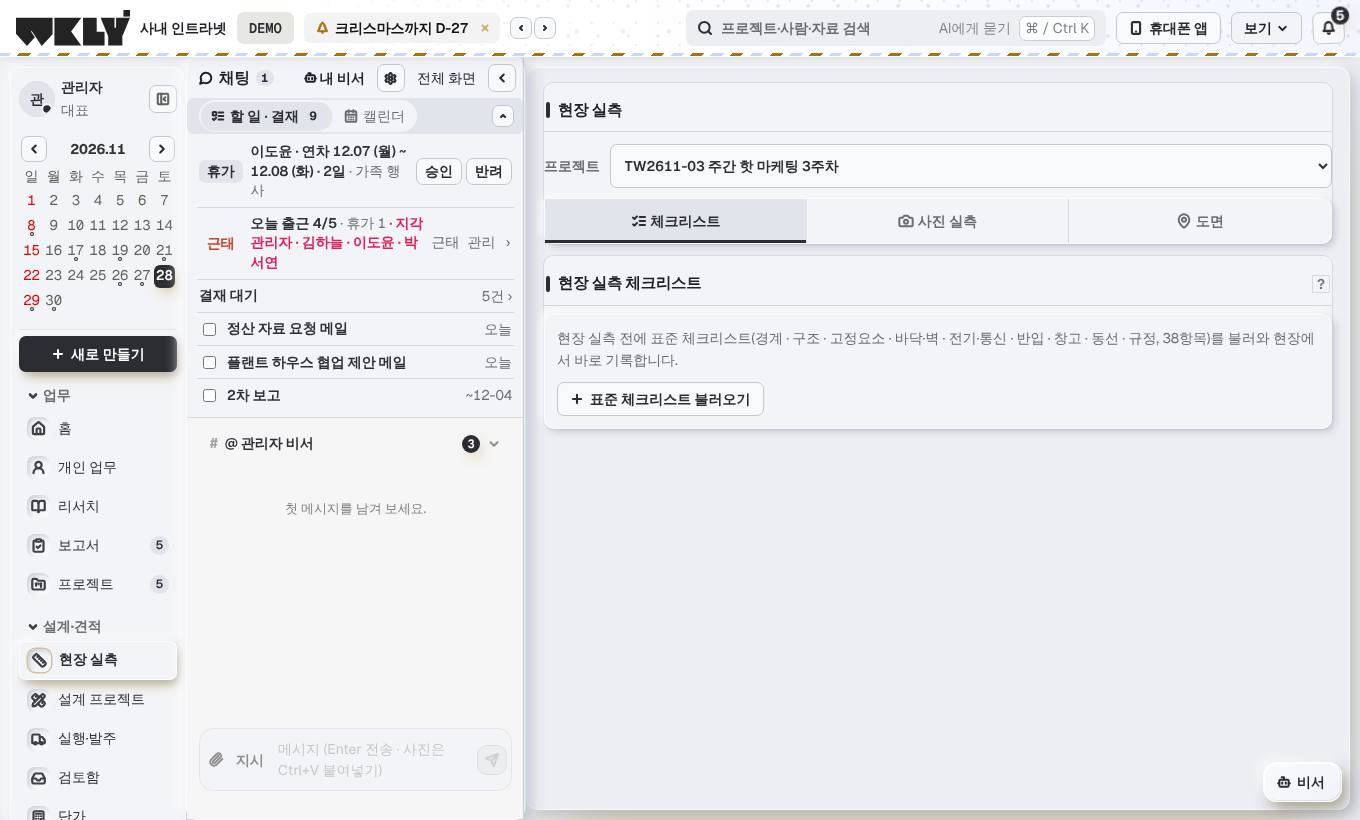
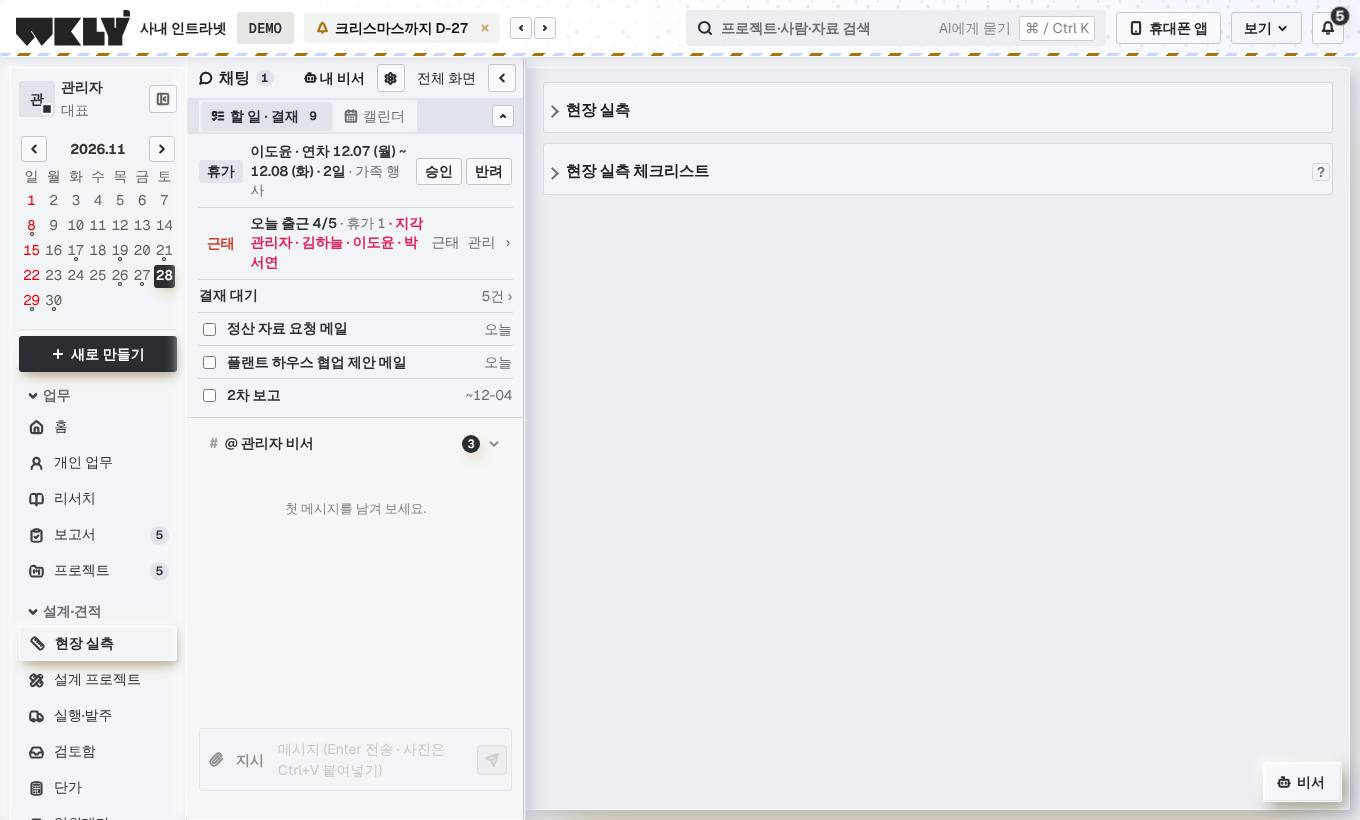
숫자 카드 · 오른쪽 일정 칸 접기, 모서리 3px, 아이콘 평평하게
Claude-Session: https://claude.ai/code/session_01F3gTQwJrgJEzSdbh5GAwru

diff --git a/erp/src/lib/foldCards.ts b/erp/src/lib/foldCards.ts
@@ -5,8 +5,10 @@
  *  - 알림 · 링크로 특정 항목을 열 때(주소에 id 등)는 그 화면에서 접지 않음 — 찾는 것이 가려지지 않게
  *  - React 가 그린 요소에는 data-* 표시만 붙임(요소를 넣거나 빼지 않음) · 모양은 mono.css [data-fold-head]
  */
-const HEAD = '.section-h, .section-head, .sec-head, .dash-card > :first-child, .div-card > :first-child, .board-head, .home-tasks-h, .guide-card-h, .myproj-h, .log-div-head, .weekly-div-head, .mf-h, .auto-camp-head, .md-head, .md-library-head, section.sales-pipe > h2:first-child, .card > h3:first-child, .box > h3:first-child, .box > h2:first-child'
-const SKIP = '.modal, .dialog, .modal-col, .scrim, .board-page, .ast-panel, .chat-dock, .web-panel, .profile, .weekly-print, [data-no-fold]'
+const HEAD = '.section-h, .section-head, .sec-head, .week-day-h, .dash-card > :first-child, .div-card > :first-child, .board-head, .home-tasks-h, .guide-card-h, .myproj-h, .log-div-head, .weekly-div-head, .mf-h, .auto-camp-head, .md-head, .md-library-head, section.sales-pipe > h2:first-child, .card > h3:first-child, .box > h3:first-child, .box > h2:first-child'
+const SKIP = '.modal, .dialog, .modal-col, .scrim, .board-page, .ast-panel, .chat-dock, .profile, .weekly-print, [data-no-fold]'
+/** 제목 줄이 없는 묶음(숫자 카드 줄 · 오른쪽 일정 칸): 묶음 위에 이름 띠를 CSS 로 그려 그것을 눌러 접고 폄 */
+const GROUPS: [string, string][] = [['.dash-kpis, .kpis, .home-kpis, .ledger-kpis, .weekly-kpis', '숫자 요약'], ['.right-sched', '일정']]
 const KEY = 'wkly-card-open'
 /** 주소에 이런 값이 있으면 특정 항목을 여는 길 → 접지 않음 */
 const DIRECT = /[?&](id|inquiry|interview|item|task|project|open|room|thread|week|user)=/
@@ -57,12 +59,19 @@ function apply(head: HTMLElement, folded: boolean) {
 }
 
 function scan() {
-  const main = document.querySelector<HTMLElement>('.app-page .main')
-  if (!main) return
+  const roots = [...document.querySelectorAll<HTMLElement>('.app-page .main, .app-page .web-panel')]
+  if (!roots.length) return
   const direct = DIRECT.test(location.search)
   const open = load()
   const path = location.pathname + (new URLSearchParams(location.search).get('tab') ? `?tab=${new URLSearchParams(location.search).get('tab')}` : '')
-  main.querySelectorAll<HTMLElement>(HEAD).forEach(head => {
+  for (const [sel, label] of GROUPS) roots.forEach(root => root.querySelectorAll<HTMLElement>(sel).forEach((g, i) => {
+    if (g.closest(SKIP) || g.parentElement?.closest('[data-fold-group]')) return
+    const key = cardKey(path, `${label} ${i + 1}`)
+    g.dataset.foldKey = key
+    g.dataset.foldLabel = label
+    if (g.dataset.foldGroup === undefined) g.dataset.foldGroup = direct || open[key] ? '0' : '1'
+  }))
+  roots.forEach(main => main.querySelectorAll<HTMLElement>(HEAD).forEach(head => {
     if (head.closest(SKIP)) return
     const title = titleOf(head)
     if (!title) return
@@ -71,7 +80,7 @@ function scan() {
     const want = direct ? false : !open[key]
     // 이미 같은 상태면 형제 표시만 다시 맞춤 (새로 그려진 줄이 있을 수 있음)
     apply(head, head.dataset.foldHead === undefined ? want : head.dataset.foldHead === '1')
-  })
+  }))
 }
 
 export function startFoldCards() {
@@ -91,6 +100,13 @@ export function startFoldCards() {
   }
   document.addEventListener('click', e => {
     const t = e.target as HTMLElement | null
+    // 이름 띠(묶음의 ::before)를 누른 것 = 묶음 자신이 눌린 것
+    if (t?.dataset.foldGroup !== undefined && e.target === t) {
+      const folded = t.dataset.foldGroup !== '1'
+      t.dataset.foldGroup = folded ? '1' : '0'
+      if (t.dataset.foldKey) save(setOpen(load(), t.dataset.foldKey, !folded))
+      return
+    }
     const head = t?.closest<HTMLElement>('[data-fold-head]')
     if (!head || t?.closest('a, button, input, select, textarea, label, [role="button"]')) return
     toggle(head)

diff --git a/erp/src/mono.css b/erp/src/mono.css
@@ -446,3 +446,26 @@ html:not([data-theme="dark"]) button.item:is(.active, .on) { box-shadow: none; b
 [data-card-fold="1"] > :not(:first-child), [data-card-hidden="1"] { display: none !important; }
 [data-fold-head="1"] { margin-bottom: 0 !important; border-bottom-color: transparent !important; }
 @media print { [data-card-fold="1"] > :not(:first-child), [data-card-hidden="1"] { display: revert !important; } }
+
+/* 제목 줄 없는 묶음 접기(숫자 카드 줄 · 오른쪽 일정 칸): 이름 띠를 눌러 접고 폄 */
+[data-fold-group]::before { content: '▾  ' attr(data-fold-label); display: block; grid-column: 1 / -1; flex: 0 0 100%; width: 100%; padding: 6px 4px; color: var(--tx-sub, #6b6d72); font-size: var(--fs-body); font-weight: 600; cursor: pointer; user-select: none; }
+[data-fold-group="1"]::before { content: '▸  ' attr(data-fold-label); }
+[data-fold-group]:hover::before { color: var(--v9-ink, #2b2d33); }
+[data-fold-group="1"] > * { display: none !important; }
+[data-fold-group="1"] { min-height: 0 !important; height: auto !important; }
+
+/* 모서리 최소화 (2026-11-28 대표 '모서리 라운드 최소화'): 어디나 3px — 동그라미여야 하는 것(스위치 · 숫자 동그라미 · 점)만 예외 */
+:root { --v8-r-card: 3px; --v8-r-ctl: 3px; --r-book: 3px; --r-inner: 3px; --r-panel: 3px; --r-bubble: 3px; }
+html:not([data-theme="dark"]) .app-page :is(div, section, article, aside, nav, header, footer, form, details, summary, button, a, input:not(.nm-switch):not([type="radio"]), select, textarea, table, ul, li, label, img, span, i, b, em):not(.excalidraw *):not([class*="dot"]):not(.count):not(.q2-badge):not(.m-dot):not(.side-n):not(.view-tab-n) { border-radius: 3px !important; }
+html:not([data-theme="dark"]) .app-page :is(.count, .q2-badge, .m-dot, .side-n, .view-tab-n) { border-radius: 999px !important; }
+html:not([data-theme="dark"]) :is(.dialog, .modal, .top-menu-pop, .ast-fab, .ast-panel, .m-more) { border-radius: 3px !important; }
+
+/* 아이콘은 평평하게 (2026-11-28 대표 '아이콘들 양각 효과 없애 전체 공통이야'): 아이콘 · 아이콘 칸에는 그림자 · 볼록 · 오목을 주지 않는다 */
+html:not([data-theme="dark"]) .app-page .profile .side-item > svg,
+html:not([data-theme="dark"]) .app-page .profile .side-item.on > svg { background: transparent; box-shadow: none; padding: 2px; color: var(--v9-ink); }
+html:not([data-theme="dark"]) :is(.icon-btn, .quick-btn, .dock-fold, .ins-icon, .home-kpi-tile, .dash-kpi-ic, .ai-ava, .avatar),
+html:not([data-theme="dark"]) .dash-kpi.is-key .dash-kpi-ic { box-shadow: none !important; }
+html:not([data-theme="dark"]) :is(.ins-icon, .home-kpi-tile, .dash-kpi-ic) { background: var(--nm-flat) !important; }
+html:not([data-theme="dark"]) .dash-kpi.is-key .dash-kpi-ic { background: var(--v9-ink) !important; }
+html:not([data-theme="dark"]) svg.lucide { filter: none; }
+html:not([data-theme="dark"]) .app-page :is(main, .main, .web-panel, .chat-dock, .profile, .topbar) { border-radius: 3px !important; }

diff --git a/CLAUDE.md b/CLAUDE.md
@@ -112,7 +112,7 @@ Codex 공동 개발은 끝났다(2026-11-16 종료 · 2026-11-20 대표 지시 '
   - `src/styles.css` : 디자인 토큰 · WKLY v7 디자인 시스템 (사각 모서리, 글자 크기 단계 `--fs-cap 12 · sm 12.5 · body 13.5 · sub 14.5 · title 16 · num 19 · hero 28` (2026-11-09 위계 다시 잡음 · 맨 아래 :root 가 최종값 · 터치 화면은 반 단계 큼))
   - (아래 글자 위계의 굵기 800 · 700 은 2026-11-28 디자인 v9 에서 700 · 600 으로, 색 값은 mono.css 토큰으로 바뀜 — 크기 3단계 · px 직접 쓰지 않기 규칙은 그대로)
   - **글자 위계 (2026-11-17 대표 지시 '전체 공통사항 · 글자 크기는 타이틀 · 본문 · 강조 3가지만 · 색 구분과 볼드 규칙') — 새 화면도 반드시 지킬 것**: `src/type.css` 를 main.tsx 맨 끝에서 읽어 앞의 모든 단계를 덮어씀. 크기 3개 = 타이틀 `--t-title` 18px(제목 · 큰 숫자) · 강조 `--t-em` 15.5px(소제목 · 이름 줄) · 본문 `--t-body` 14px(나머지 전부 — 날짜 · 메타 · 배지 포함, 터치 화면 18.5/16/15) · 예전 토큰은 cap/sm/small/body → 본문, sub → 강조, title/num/hero → 타이틀로 이어짐. CSS 에 px 글자 크기를 새로 쓰지 말고 var(--fs-body | --fs-sub | --fs-title) 만 쓸 것(2026-11-17 에 94곳 바꿈 · 예외는 알림 숫자 동그라미 .side-n · .q2-badge · .bell .count 12px). 굵기 3개 = 800 타이틀 · 700 강조 · 400 본문(500 · 600 · 650 · 750 안 씀 · 76곳 바꿈). 색 = --tx-title #151d18 · --tx-body #222a25 · --tx-sub #535c56(보조는 크기 대신 색으로 낮춤 · --gray 도 이 색) · --tx-key #1f6b4a(누를 수 있는 것 · 고른 것) · 빨강은 지연 · 경고만. 묶음 클래스 .tx-title · .tx-em · .tx-body · .tx-sub · .tx-key. 차트 SVG 글자(charts.tsx 등)는 그대로
-  - **디자인 v9 모노톤 + 네온 빛 (2026-11-28 대표가 핀터레스트 참고 화면 넷을 골라 '이것들을 조합해서 디자인잡아 · 인트라넷 디자인 전체를 변경해 · 모노톤과 네온 효과' → '남은 화면들도 모노톤으로 · 폰트와 디자인규칙까지 모두 변경해 · 대시보드또한 디자인 배치 다시' · '색은 첨부이미지와 같이 네온 효과' · '빛이 새어나가는 효과를 잘 만들어') — 규칙 문서 `erp/docs/DESIGN_V9.md` · 새 화면도 반드시 이 규칙**: `src/mono.css`(main.tsx 맨 끝)가 토큰을 정함. ① 색 = 회색 계열 하나(바탕 #f0f0ee · 흰 카드 · 먹색 #141414 = 고른 것 · 막대) + 네온 파랑 `--v9-accent` #1f4dff 하나 · 빨강 · 노랑은 지연 · 경고만 · 초록 점은 '정상'만 ② 네온 = 가장자리에서 오른쪽 아래로 새어 나가는 파랑 빛 `--glow-1/2/3` · `--neon-soft` — 주 버튼 · 고른 것 · 오늘 · 가장 중요한 숫자 하나 · 누를 수 있는 카드 hover 에만, 글자색으로는 안 씀 ③ 글꼴 = 영문 · 숫자 Geist · 한글 Pretendard · 큰 숫자 · 연번 Geist Mono(구글 폰트 · index.html) · 크기 18 / 15.5 / 14 그대로 + 큰 숫자 `--t-num` 24 · **굵기 700 / 600 / 400**(예전 800 / 700 을 CSS 전체에서 한 단계씩 내림) ④ 모서리 카드 14 · 버튼 10 · 알약 ⑤ 카드 틀 = 회색 머리 + 흰 본문. 같은 날 **모든 CSS 의 굳은 색을 회색으로 바꿈**(초록 · 미색 · 보라 → 같은 밝기 회색 · 파랑 → `--v9-accent` / `-tint` · '화면 어둡게' 규칙 줄은 그대로 · 빨강 · 주황 · 노랑은 그대로) — **새 CSS 에 색 값을 직접 쓰지 말고 토큰을 쓸 것.** 구분 색은 `--div-ar/tw/rs`(먹색 · 회색 · 연회색) · 달력 내 업무는 네온 파랑. 홈 대시보드 새 배치(`pages/Dashboard.tsx` · `.css`): 인사 + 주 버튼 → 숫자 카드 넷(작은 막대 · 아래 설명 줄 · 첫 카드에 빛) → '업무 흐름' 점 격자(지난 2주 끝낸 일 · 앞으로 2주 마감 · 오늘 기둥에 빛 · `lib/dashboard.ts` dayFlow) + 팀원 세로 막대 → 마감이 가까운 프로젝트 표(진행 막대 · 상태 알약) → 앞으로 7일 · 구분별 → 진행 프로젝트 카드. 같은 날 2차 '부드럽게'(대표 '아직 안 바꾼 곳들도 모두 모노톤으로' · '디자인 ui,ux도 바꿔 · 색상의 사용도 수정하고 · 부드러운 느낌'): 새까만 색 대신 부드러운 먹색 `--v9-ink` #2b2d33 · 고른 것은 검은 알약 대신 연한 파랑 바탕 · 자주 누르는 버튼(.btn-blue 등)은 연한 파랑 · 테두리 대신 옅은 그림자 · 카드 18 / 버튼 12 · **styles.css 의 '모든 모서리 0 !important' 고정을 없앰(다시 넣지 말 것)** · 빛은 테 없이 넓게 · 0.2초 전환 · 창 뒤 뿌옇게. 차트(LedgerStats · MarketingFlow) · 화이트보드(미니맵 · 커서 · Excalidraw 색) · 설계(제안 보드 견본 색 · 3D 바닥 · 도면 바탕) · 기념일 장식 띠 · PC 오프라인 화면(desktop/offline.html — 다음 PC 프로그램 릴리스 때 반영)도 회색 + 네온 파랑. 그대로 둔 것: 실제 자재 색(3D · 마감재) · 거래처에 나가는 것(제안서 슬라이드 · 영업 메일 · 카드뉴스 · 광고 이미지). 같은 날 3차 '선명하게 · 메뉴마다 다른 색'(대표 '광고 화면 기간 고르기 칸과 묶음 탭도 고쳐 · 아이콘과 배경들 각각의 카드들의 선구분을 선명하게 · 색은 각 메뉴마다 다른 색' · 참고 Product UI Styleguide): **강조색 `--v9-accent` 는 메뉴마다 다름**(`lib/menuColors.ts` · Shell 이 지금 메뉴 색을 html 에 넣음 · 빛 · 연한 바탕 · 주 버튼은 color-mix 로 계산 — CSS 에 파랑을 직접 쓰지 말 것 · 새 메뉴는 색 한 줄 추가) · 왼쪽 메뉴는 대표 지시로 다시 모노톤(아이콘 · 고른 줄 · 숫자 칸 먹색 — 메뉴 색은 화면 안에서만) · 카드는 흰 바탕 + 1px 선 #dbdbd7 + 옅은 그림자(바탕 #eeeeeb) · 광고 묶음 탭 = 홈 안의 흰 카드 · 기간 고르기 = 알약. 같은 날 4차 '볼록 · 오목'(대표가 뉴모피즘 참고 그림 두 장을 보내 '이 ui도 사용해' · '이것도 넣어'): 면은 바탕과 거의 같은 밝은 회색 · 구분은 왼쪽 위 빛 + 오른쪽 아래 그림자(`--nm-up` 떠 있음 = 카드 · 버튼 / `--nm-in` 눌림 = 입력 칸 · 고른 칩 · 고른 메뉴 줄) · 구간 고르기는 회색 홈 + 흰 알약 · 켜고 끄는 설정은 체크박스에 className `nm-switch`(스위치 모양). 같은 날 5차(대표 '나머지 화면들도 모두 볼록 오목 디자인으로 · 모서리 라운드 좀 더 각지게'): 흰 바탕을 없앰 — `--white` · `--v8-card` 와 모든 CSS 의 흰 바탕 165곳을 `var(--nm-face)` 로(**새 CSS 에 `background: #fff` 를 쓰지 말 것**) · 테두리 있는 묶음 칸 30여 종을 떠 있는 모양으로 · 모서리 카드 10 / 버튼 · 입력 · 칩 7 / 큰 판 12(알약 · 원은 스위치와 숫자 동그라미만). **같은 날 최종 규칙(대표 '너무 많은 색을 사용하지마 · 전체적으로 모노톤에 그림자를 네온 번지는 효과로 · 각 메뉴마다 다른 색' · '휴대폰 화면도 볼록 오목'): 면 · 글자 · 아이콘 · 버튼 · 숫자 동그라미는 먹색과 회색만, 메뉴 색(`--v9-accent`)은 그림자가 번지는 빛(`--nm-neon` · `--nm-neon-sm`)으로만 쓴다 — 색 글자 · 색 바탕 버튼 · 색 배지를 새로 만들지 말 것. 빨강(산호색)은 지연 · 경고만. 휴대폰 아래 메뉴도 떠 있는 판 + 고른 칸 눌린 홈.** 같은 날(대표 '채팅 화면도 볼록 오목 · 아이콘 오목으로 · 채팅 상단부 높이 내려서 왼쪽에서 돌출 · 비서도 양각 유리'): 왼쪽 메뉴 아이콘 칸 = 오목 · 접힌 채팅 칸(.chat-dock.closed) = 왼쪽 판에서 튀어나온 짧은 손잡이 · 비서 단추(.ast-fab) · 비서 창 = 양각 유리 · 채팅 방 목록 눌린 홈 / 고른 방 떠 있음 / 입력 칸 눌린 홈. **절제(대표 '양각과 음각을 너무 많이 사용하지마 사용성 떨어져'): 깊이는 한 단계만 — 떠 있는 것은 큰 카드 · 본문 판 · 주 버튼 · 비서 단추 · 접힌 채팅 손잡이, 눌린 것은 왼쪽 메뉴 아이콘 칸뿐. 카드 안의 표 · 칩 · 작은 버튼 · 입력 칸 · 막대 · 말풍선은 평평하게(옅은 선 · `--nm-flat` · `--nm-field`) — 새 화면에서 카드 안에 그림자를 또 넣지 말 것.** 화이트보드 편집기 머리(대표 '두줄로 줄이고 전체보기 네비게이션도 포함해서 접었다 펼 수 있게'): 첫 줄 = 이름 · 상태 · '도구' 단추 · 전체 화면, 둘째 줄(도구 줄 · 한 줄 · 넘치면 옆으로 밀기) = 페이지 · PPT 불러오기 · 피그마 · PNG · PDF · PPT · 지도 단추 — '도구'로 접고 폄(기본 접힘 · localStorage wkly-board-tools) · 전체 보기 지도도 도구를 펼쳤을 때만 보임. **모든 카드 접기(대표 '모든 카드는 접을 수 있게 만들고 기본은 접은 상태야' · 범위 확인 '인트라넷 전체 카드' · `lib/foldCards.ts` · main.tsx startFoldCards): 본문의 제목 줄 있는 묶음은 처음에 제목만 보이고 누르면 펼침 · 펼친 것은 브라우저에 기억(wkly-card-open) · 주소에 id · inquiry 등 특정 항목이 있으면 안 접음 · 새 카드는 제목에 SectionHead 를 쓰면 저절로 대상 · 접히면 안 되는 곳은 `data-no-fold`. 시험 tests/fold-cards.test.ts.** 사용 안내 사진 13장 · 영상 3개 다시 찍음 · 안내 글(guides.ts 두 곳)의 홈 · 할 일(/my) · 일정(/projects?view=calendar)을 새 구조에 맞춤(agent-chat 쪽은 다음 배포 때 반영).
+  - **디자인 v9 모노톤 + 네온 빛 (2026-11-28 대표가 핀터레스트 참고 화면 넷을 골라 '이것들을 조합해서 디자인잡아 · 인트라넷 디자인 전체를 변경해 · 모노톤과 네온 효과' → '남은 화면들도 모노톤으로 · 폰트와 디자인규칙까지 모두 변경해 · 대시보드또한 디자인 배치 다시' · '색은 첨부이미지와 같이 네온 효과' · '빛이 새어나가는 효과를 잘 만들어') — 규칙 문서 `erp/docs/DESIGN_V9.md` · 새 화면도 반드시 이 규칙**: `src/mono.css`(main.tsx 맨 끝)가 토큰을 정함. ① 색 = 회색 계열 하나(바탕 #f0f0ee · 흰 카드 · 먹색 #141414 = 고른 것 · 막대) + 네온 파랑 `--v9-accent` #1f4dff 하나 · 빨강 · 노랑은 지연 · 경고만 · 초록 점은 '정상'만 ② 네온 = 가장자리에서 오른쪽 아래로 새어 나가는 파랑 빛 `--glow-1/2/3` · `--neon-soft` — 주 버튼 · 고른 것 · 오늘 · 가장 중요한 숫자 하나 · 누를 수 있는 카드 hover 에만, 글자색으로는 안 씀 ③ 글꼴 = 영문 · 숫자 Geist · 한글 Pretendard · 큰 숫자 · 연번 Geist Mono(구글 폰트 · index.html) · 크기 18 / 15.5 / 14 그대로 + 큰 숫자 `--t-num` 24 · **굵기 700 / 600 / 400**(예전 800 / 700 을 CSS 전체에서 한 단계씩 내림) ④ 모서리 카드 14 · 버튼 10 · 알약 ⑤ 카드 틀 = 회색 머리 + 흰 본문. 같은 날 **모든 CSS 의 굳은 색을 회색으로 바꿈**(초록 · 미색 · 보라 → 같은 밝기 회색 · 파랑 → `--v9-accent` / `-tint` · '화면 어둡게' 규칙 줄은 그대로 · 빨강 · 주황 · 노랑은 그대로) — **새 CSS 에 색 값을 직접 쓰지 말고 토큰을 쓸 것.** 구분 색은 `--div-ar/tw/rs`(먹색 · 회색 · 연회색) · 달력 내 업무는 네온 파랑. 홈 대시보드 새 배치(`pages/Dashboard.tsx` · `.css`): 인사 + 주 버튼 → 숫자 카드 넷(작은 막대 · 아래 설명 줄 · 첫 카드에 빛) → '업무 흐름' 점 격자(지난 2주 끝낸 일 · 앞으로 2주 마감 · 오늘 기둥에 빛 · `lib/dashboard.ts` dayFlow) + 팀원 세로 막대 → 마감이 가까운 프로젝트 표(진행 막대 · 상태 알약) → 앞으로 7일 · 구분별 → 진행 프로젝트 카드. 같은 날 2차 '부드럽게'(대표 '아직 안 바꾼 곳들도 모두 모노톤으로' · '디자인 ui,ux도 바꿔 · 색상의 사용도 수정하고 · 부드러운 느낌'): 새까만 색 대신 부드러운 먹색 `--v9-ink` #2b2d33 · 고른 것은 검은 알약 대신 연한 파랑 바탕 · 자주 누르는 버튼(.btn-blue 등)은 연한 파랑 · 테두리 대신 옅은 그림자 · 카드 18 / 버튼 12 · **styles.css 의 '모든 모서리 0 !important' 고정을 없앰(다시 넣지 말 것)** · 빛은 테 없이 넓게 · 0.2초 전환 · 창 뒤 뿌옇게. 차트(LedgerStats · MarketingFlow) · 화이트보드(미니맵 · 커서 · Excalidraw 색) · 설계(제안 보드 견본 색 · 3D 바닥 · 도면 바탕) · 기념일 장식 띠 · PC 오프라인 화면(desktop/offline.html — 다음 PC 프로그램 릴리스 때 반영)도 회색 + 네온 파랑. 그대로 둔 것: 실제 자재 색(3D · 마감재) · 거래처에 나가는 것(제안서 슬라이드 · 영업 메일 · 카드뉴스 · 광고 이미지). 같은 날 3차 '선명하게 · 메뉴마다 다른 색'(대표 '광고 화면 기간 고르기 칸과 묶음 탭도 고쳐 · 아이콘과 배경들 각각의 카드들의 선구분을 선명하게 · 색은 각 메뉴마다 다른 색' · 참고 Product UI Styleguide): **강조색 `--v9-accent` 는 메뉴마다 다름**(`lib/menuColors.ts` · Shell 이 지금 메뉴 색을 html 에 넣음 · 빛 · 연한 바탕 · 주 버튼은 color-mix 로 계산 — CSS 에 파랑을 직접 쓰지 말 것 · 새 메뉴는 색 한 줄 추가) · 왼쪽 메뉴는 대표 지시로 다시 모노톤(아이콘 · 고른 줄 · 숫자 칸 먹색 — 메뉴 색은 화면 안에서만) · 카드는 흰 바탕 + 1px 선 #dbdbd7 + 옅은 그림자(바탕 #eeeeeb) · 광고 묶음 탭 = 홈 안의 흰 카드 · 기간 고르기 = 알약. 같은 날 4차 '볼록 · 오목'(대표가 뉴모피즘 참고 그림 두 장을 보내 '이 ui도 사용해' · '이것도 넣어'): 면은 바탕과 거의 같은 밝은 회색 · 구분은 왼쪽 위 빛 + 오른쪽 아래 그림자(`--nm-up` 떠 있음 = 카드 · 버튼 / `--nm-in` 눌림 = 입력 칸 · 고른 칩 · 고른 메뉴 줄) · 구간 고르기는 회색 홈 + 흰 알약 · 켜고 끄는 설정은 체크박스에 className `nm-switch`(스위치 모양). 같은 날 5차(대표 '나머지 화면들도 모두 볼록 오목 디자인으로 · 모서리 라운드 좀 더 각지게'): 흰 바탕을 없앰 — `--white` · `--v8-card` 와 모든 CSS 의 흰 바탕 165곳을 `var(--nm-face)` 로(**새 CSS 에 `background: #fff` 를 쓰지 말 것**) · 테두리 있는 묶음 칸 30여 종을 떠 있는 모양으로 · 모서리 카드 10 / 버튼 · 입력 · 칩 7 / 큰 판 12(알약 · 원은 스위치와 숫자 동그라미만). **같은 날 최종 규칙(대표 '너무 많은 색을 사용하지마 · 전체적으로 모노톤에 그림자를 네온 번지는 효과로 · 각 메뉴마다 다른 색' · '휴대폰 화면도 볼록 오목'): 면 · 글자 · 아이콘 · 버튼 · 숫자 동그라미는 먹색과 회색만, 메뉴 색(`--v9-accent`)은 그림자가 번지는 빛(`--nm-neon` · `--nm-neon-sm`)으로만 쓴다 — 색 글자 · 색 바탕 버튼 · 색 배지를 새로 만들지 말 것. 빨강(산호색)은 지연 · 경고만. 휴대폰 아래 메뉴도 떠 있는 판 + 고른 칸 눌린 홈.** 같은 날(대표 '채팅 화면도 볼록 오목 · 아이콘 오목으로 · 채팅 상단부 높이 내려서 왼쪽에서 돌출 · 비서도 양각 유리'): 왼쪽 메뉴 아이콘 칸 = 오목 · 접힌 채팅 칸(.chat-dock.closed) = 왼쪽 판에서 튀어나온 짧은 손잡이 · 비서 단추(.ast-fab) · 비서 창 = 양각 유리 · 채팅 방 목록 눌린 홈 / 고른 방 떠 있음 / 입력 칸 눌린 홈. **절제(대표 '양각과 음각을 너무 많이 사용하지마 사용성 떨어져'): 깊이는 한 단계만 — 떠 있는 것은 큰 카드 · 본문 판 · 주 버튼 · 비서 단추 · 접힌 채팅 손잡이, 눌린 것은 왼쪽 메뉴 아이콘 칸뿐. 카드 안의 표 · 칩 · 작은 버튼 · 입력 칸 · 막대 · 말풍선은 평평하게(옅은 선 · `--nm-flat` · `--nm-field`) — 새 화면에서 카드 안에 그림자를 또 넣지 말 것.** 화이트보드 편집기 머리(대표 '두줄로 줄이고 전체보기 네비게이션도 포함해서 접었다 펼 수 있게'): 첫 줄 = 이름 · 상태 · '도구' 단추 · 전체 화면, 둘째 줄(도구 줄 · 한 줄 · 넘치면 옆으로 밀기) = 페이지 · PPT 불러오기 · 피그마 · PNG · PDF · PPT · 지도 단추 — '도구'로 접고 폄(기본 접힘 · localStorage wkly-board-tools) · 전체 보기 지도도 도구를 펼쳤을 때만 보임. **모든 카드 접기(대표 '모든 카드는 접을 수 있게 만들고 기본은 접은 상태야' · 범위 확인 '인트라넷 전체 카드' · `lib/foldCards.ts` · main.tsx startFoldCards): 본문의 제목 줄 있는 묶음은 처음에 제목만 보이고 누르면 펼침 · 펼친 것은 브라우저에 기억(wkly-card-open) · 주소에 id · inquiry 등 특정 항목이 있으면 안 접음 · 새 카드는 제목에 SectionHead 를 쓰면 저절로 대상 · 접히면 안 되는 곳은 `data-no-fold`. 시험 tests/fold-cards.test.ts.** 같은 날(대표 '숫자 카드와 오른쪽 일정 칸도 접을 수 있게 · 모서리 라운드 최소화' · '아이콘들 양각 효과 없애 전체 공통이야'): 숫자 카드 줄 · 오른쪽 일정 칸도 이름 띠로 접고 폄(foldCards.ts GROUPS · 기본 접힘) · **모서리는 어디나 3px**(스위치 · 숫자 동그라미 · 점만 예외) · **아이콘 · 아이콘 칸은 평평하게(그림자 · 볼록 · 오목 금지)**. 사용 안내 사진 13장 · 영상 3개 다시 찍음 · 안내 글(guides.ts 두 곳)의 홈 · 할 일(/my) · 일정(/projects?view=calendar)을 새 구조에 맞춤(agent-chat 쪽은 다음 배포 때 반영).
   - 디자인 v8 (2026-11-16 대표 지시 '인트라넷 디자인 개선해' · Houzz Pro 스타일 계획 문서 1단계): `src/refresh.css` 를 main.tsx 맨 끝에서 읽음 — 따뜻한 미색 바탕(#f6f4ef) · 흰 작업 칸 · 둥근 모서리(카드 12 · 버튼·입력 8 · 태그 알약, v7 의 '모두 사각'을 덮어씀) · 흰 위쪽 바(초록 로고) · 테두리 없는 메뉴(고른 줄 흰 칸) · 밑줄 탭 · 가로선만 표 · 연한 배지 · 글꼴 Pretendard(jsdelivr · 무료) + 숫자도 같은 글꼴 고정폭. 색은 `html:not([data-theme=dark])` 에만 → '화면 어둡게'는 그대로. 새 화면은 --v8-* 토큰을 쓸 것. import 한 줄을 빼면 v7 로 돌아감
   - 실행 내역 엑셀 읽기 (2026-11-17 대표 우선순위 3 '실제 프로젝트로 검증'): `lib/designCost.ts` parseCostSheet 가 회사 '실행집행 내역서' 양식(구분 · 견적 항목 · 실행 내역 · 단위 · 수량 · 실행 단가 · 실행 금액 · 발주처 · 근거·확인)도 읽음 — 품목 = 실행 내역, 구분 · 견적 항목은 아래 줄로 이어 씀(견적 항목은 비고 앞 [ ]), 단위 저장, 발주처 '미정 · 내부 · —'는 업체 없음. 예전엔 '실행 단가' 머리 줄을 못 알아봐 '실행 내역을 찾지 못했습니다'가 났음. 시험 tests/design-cost.test.ts. 11/17 로제코(AR2610-08) 설계 프로젝트에 실물 60줄 · 49,703,600원 넣어 확인(openpyxl 계산과 일치 · 견적 공급가 6,000만 대비 실행 82.8%). 조달청 물가 기준은 이 견적처럼 인건비(인) · 식 단위가 많으면 0/60 매칭 → 시중노임단가 기준이 다음 과제
   - 사진 카드 (2026-11-17 대표 우선순위 1 'Houzz Pro 식 화면 개편'): 프로젝트 카드(홈 · 프로젝트 '카드' 보기 · `components/ProjectCards.tsx`) 맨 위 16:10 대표 사진 + 사진 위 구분 알약 · 남은 기간, 사진 없으면 구분 색 바탕에 연번. 프로젝트 상세 머리 아래 표지 사진(`ProjectCoverBanner` · 사진 있을 때만). 홈 숫자 카드 4개 왼쪽 아이콘 타일. 사진은 서버 함수 `project-covers`(verify_jwt false · x-sync-key = GDRIVE_SYNC_KEY · 10분마다 cron project_covers → private.project_covers_tick)가 drive_index 사진 중 하나를 골라(`project-covers/cover.ts` pickCover: 준공 · 촬영 > 투시도 · 렌더 · 성과물 그래픽 > 현장 사진(상권조사 제외) > 컨셉 · 시안 > 기타 · 계약 · 견적 · 통장 · 명함 · 캡처 · 로고 · 슬랙 · 카톡 제외 · 60KB 이상) 드라이브 미리보기(긴 변 800px)만 비공개 보관함 project-covers 에 넣음 · 표 public.project_covers(활성 팀원 읽기 · 쓰기는 서버만 · source auto|manual · 자동은 3일마다 다시 고름) · api.projectCovers()(서명 주소 1시간 · signedUrlCache) · 체험 모드는 사진 없음. 20261117201000_project_covers. 시험 `npm run test:covers`

diff --git a/erp/docs/DESIGN_V9.md b/erp/docs/DESIGN_V9.md
@@ -103,3 +103,5 @@
 - 알림 · 링크로 특정 항목을 여는 주소(id · inquiry · interview · item 등)에서는 접지 않는다.
 - 새 카드를 만들 때 제목 줄에 `SectionHead`(.section-h)를 쓰면 저절로 접힌다. 접히면 안 되는 묶음은 바깥에 `data-no-fold`.
 - 창(모달) · 화이트보드 편집기 · 채팅 칸 · 오른쪽 일정 칸 · 왼쪽 메뉴는 대상이 아니다.
+
+- (2026-11-28 대표 지시 · 위 규칙보다 우선) **모서리는 어디나 3px**(스위치 · 숫자 동그라미 · 점만 둥글게). **아이콘 · 아이콘 칸에는 그림자 · 볼록 · 오목을 주지 않는다.** 제목 줄 없는 묶음(숫자 카드 줄 · 오른쪽 일정 칸)도 이름 띠('숫자 요약' · '일정')를 눌러 접고 편다 — foldCards.ts GROUPS.
